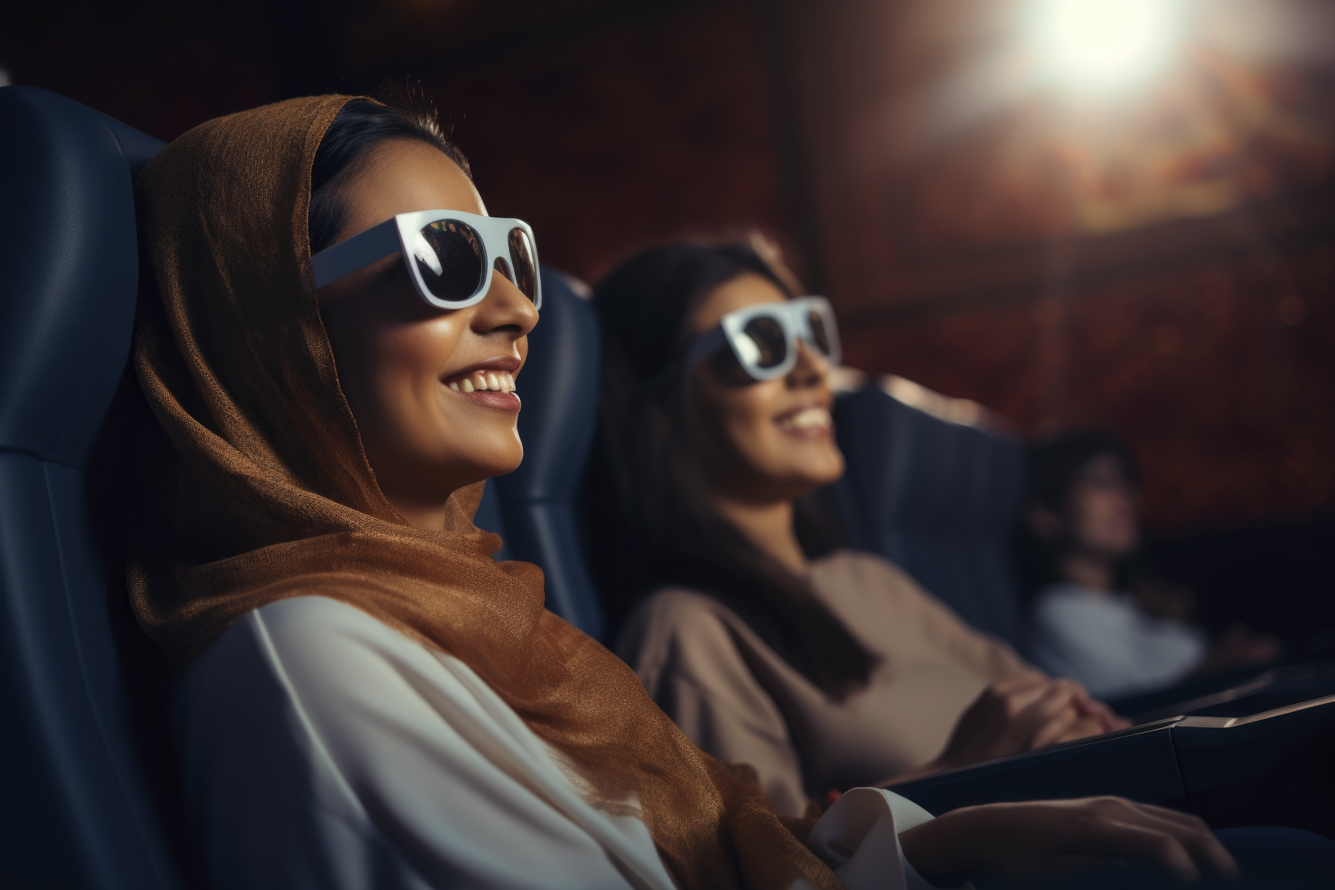
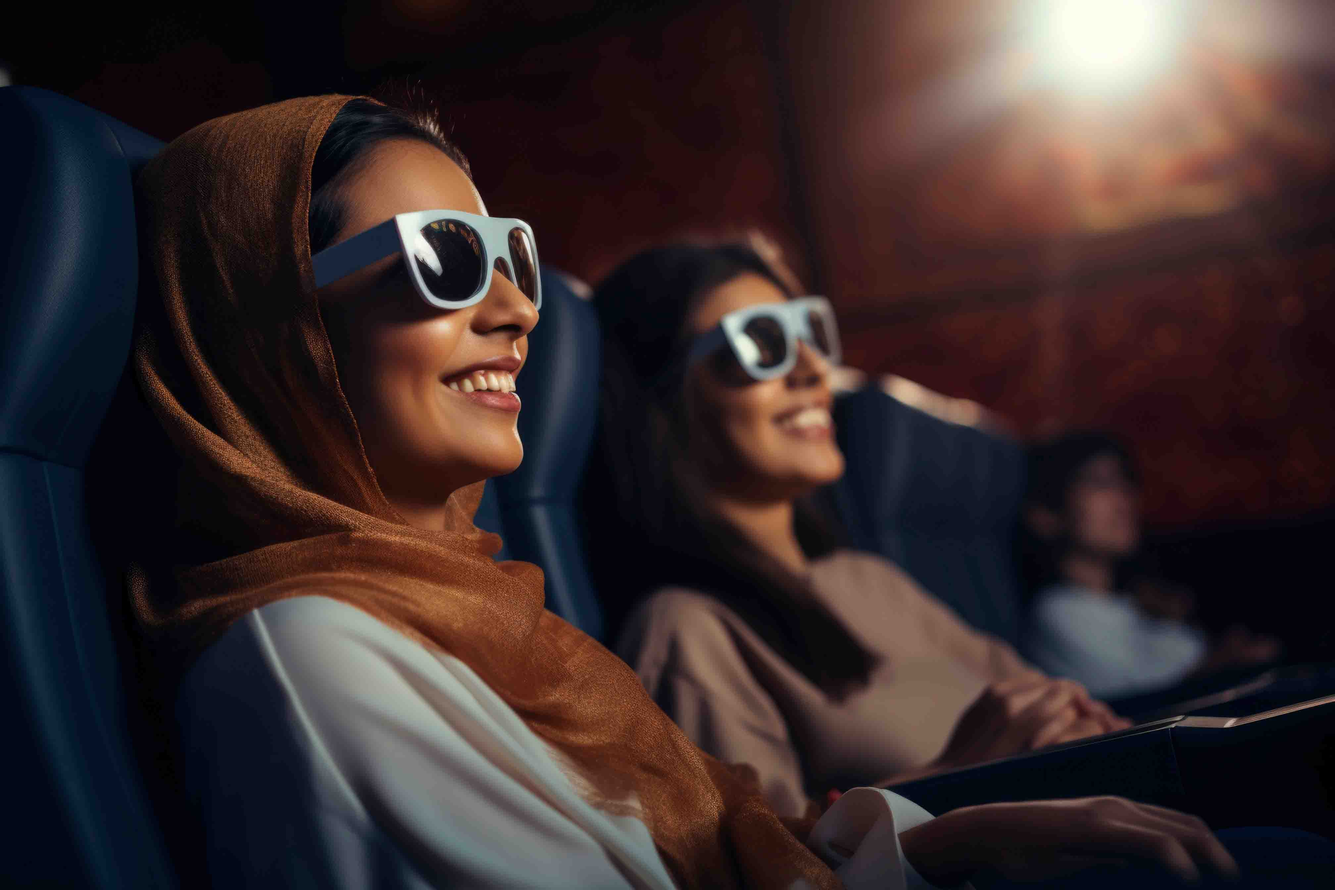
search update

diff --git a/public/css/webstyles.css b/public/css/webstyles.css
@@ -10,7 +10,7 @@ body {
 body {
     background: linear-gradient(180deg, rgba(0, 0, 0, 0.7) 2.72%, rgba(0, 0, 0, 0) 35.89%, rgba(0, 0, 0, 0.53) 100%),
         linear-gradient(90deg, rgba(0, 0, 0, 0.9) 33.18%, rgba(0, 0, 0, 0) 80.52%),
-        url('../img/images/movie-poster.png') no-repeat center center fixed;
+        url('../img/images/movie-poster.jpg') no-repeat center center fixed;
     background-size: cover;
     background-attachment: fixed;
 }

diff --git a/resources/views/dashboard/Layout/search-results.blade.php b/resources/views/dashboard/Layout/search-results.blade.php
@@ -1,43 +1,5 @@
-@if (!$movies->isEmpty())
-    <ul class="suggestions-list"
-        style="list-style-type: none; padding: 0; margin: 0; background-color: white; border: 1px solid #ddd; border-radius: 4px; max-width: 400px;">
-        @foreach ($movies as $movie)
-            <li
-                style="padding: 8px 12px; cursor: pointer; border-bottom: 1px solid #ddd; display: flex; align-items: center;">
-                <a href="{{ route('dashboard.movies.show', $movie->movie_id) }}"
-                    style="text-decoration: none; color: black; flex-grow: 1;">
-                    {{ $movie->film_release_date }} 
-                </a>
-            </li>
-        @endforeach
-    </ul>
-@endif
-
-
-
-@if (!$movieN->isEmpty())
-    <ul class="suggestions-list"
-        style="list-style-type: none; padding: 0; margin: 0; background-color: white; border: 1px solid #ddd; border-radius: 4px; max-width: 400px;">
-        @foreach ($movieN as $Movie)
-            <li
-                style="padding: 8px 12px; cursor: pointer; border-bottom: 1px solid #ddd; display: flex; align-items: center;">
-                <img src="{{ asset($Movie->image) }}" alt="{{ $Movie->movie_id }}"
-                    style="width: 50px; height: 50px; object-fit: cover; margin-right: 10px;">
-                <a href="{{ route('dashboard.movies.show', $Movie->id) }}"
-                    style="text-decoration: none; color: black; flex-grow: 1;">
-                    {{ $Movie->movie_name }} 
-                </a>
-            </li>
-        @endforeach
-    </ul>
-@endif
-
-
-
-    
-
-<!--@if ($movies->isEmpty())
-    <p>There are no movies on this date.</p>
+@if ($movies->isEmpty())
+    <p>There are no movies </p>
 @else
     <ul class="suggestions-list"
         style="list-style-type: none; padding: 0; margin: 0; background-color: white; border: 1px solid #ddd; border-radius: 4px; max-width: 400px;">
@@ -54,5 +16,4 @@
         @endforeach
     </ul>
    
-@endif -->
-
+@endif

diff --git a/app/Http/Controllers/Dashboard/MovieController.php b/app/Http/Controllers/Dashboard/MovieController.php
@@ -72,39 +72,32 @@ class MovieController extends Controller
 
    
     public function ajaxSearch(Request $request)
-    {
-        $date = $request->input('date');
-        $query = $request->input('query');
-        $movies = [];
-        $movieN = [];
-    
-        if ($date) {
-            $movies = Show_Movie::where('film_release_date', 'LIKE', "%{$date}%")->get();
+        {
+            $query = $request->input('query');
+            $date = $request->input('date');
+        
+            $movies = Movie::where('movie_name', 'LIKE', "%{$query}%");
+        
+            if ($date) {
+                $movies->whereHas('Show_Movies', function ($query) use ($date) {
+                    $query->whereDate('film_release_date', $date);
+                });
+            }
+        
+            $movies = $movies->get();
+        
+            
+            return view('dashboard.Layout.search-results', compact('movies'))->render();
         }
-    
-        if ($query) {
-            $movieN = Movie::where('movie_name', 'LIKE', "%{$query}%")->get();
-        }
-    
-        return view('dashboard.Layout.search-results', compact('movies', 'movieN'))->render();
-    }
+        
     
     public function searchSuggestions(Request $request)
     {
-        $date = $request->input('date');
         $query = $request->input('query');
-        $movies = [];
-        $movieN = [];
-    
-        if ($date) {
-            $movies = Show_Movie::where('film_release_date', 'LIKE', "%{$date}%")->get(['movie_id']);
-        }
-    
-        if ($query) {
-            $movieN = Movie::where('movie_name', 'LIKE', "%{$query}%")->get(['movie_name']);
-        }
-    
-        return response()->json(['movies' => $movies, 'movieN' => $movieN]);
+        $movies = Movie::where('movie_name', 'LIKE', "%{$query}%")->get(['id', 'movie_name', 'image']);
+        return response()->json($movies);
+
+        
     }
     
 

diff --git a/resources/views/dashboard/Layout/navigation.blade.php b/resources/views/dashboard/Layout/navigation.blade.php
@@ -8,7 +8,7 @@
                 <li><a href="#movies">Movies</a></li>
                 <li><a href="{{route('dashboard.Layout.aboutus')}}">About Us</a></li>
                 <li><a href="{{route('dashboard.contact')}}">Contact Us</a></li>
-                <li><a href="{{ route('dashboard.Layout.event') }}">Event</a></li>
+                <li><a href="{{route('dashboard.Layout.event') }}">Event</a></li>
 
                 @if (Route::has('register'))
                 <li><a href="{{ route('register') }}" class="join-us">Join Us</a></li>
